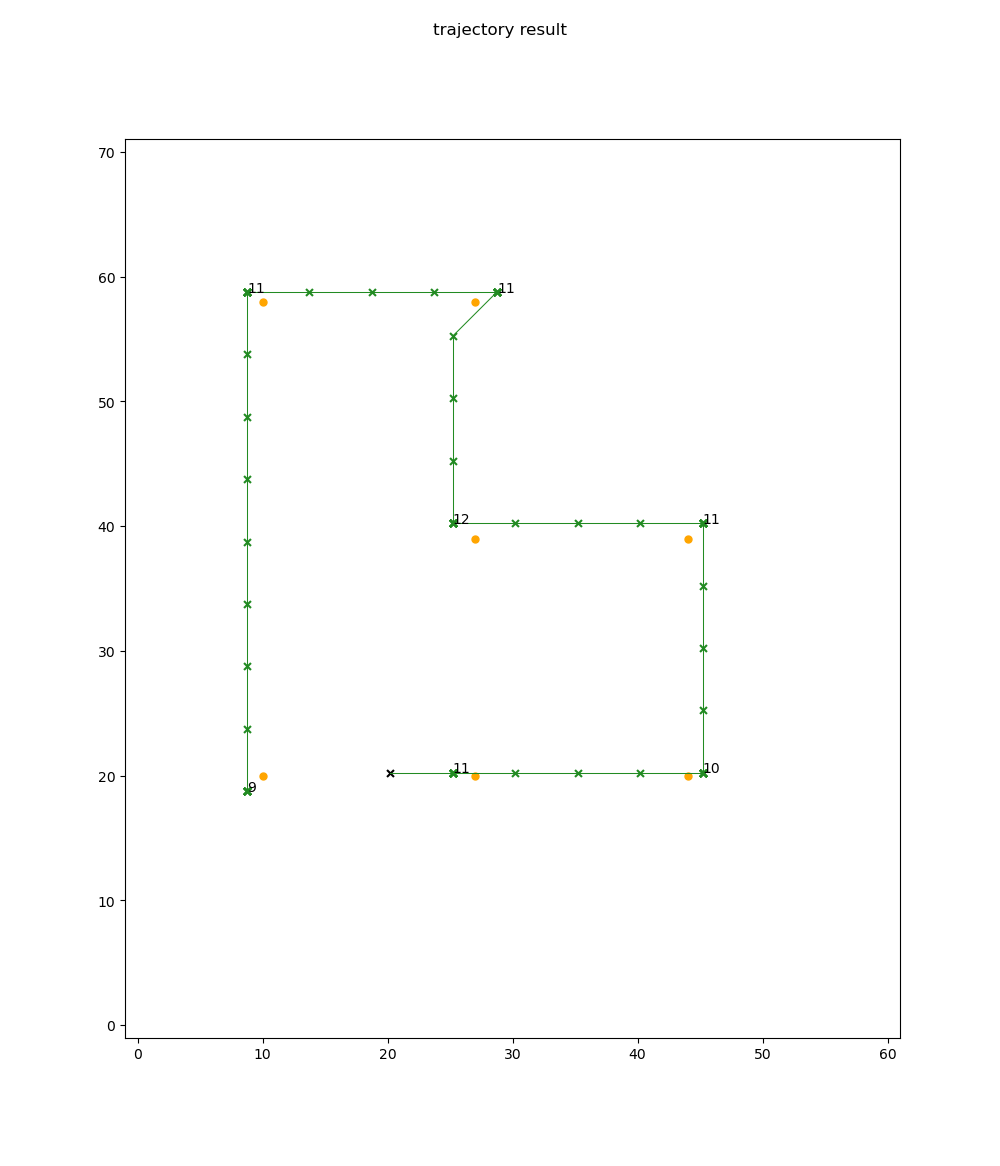
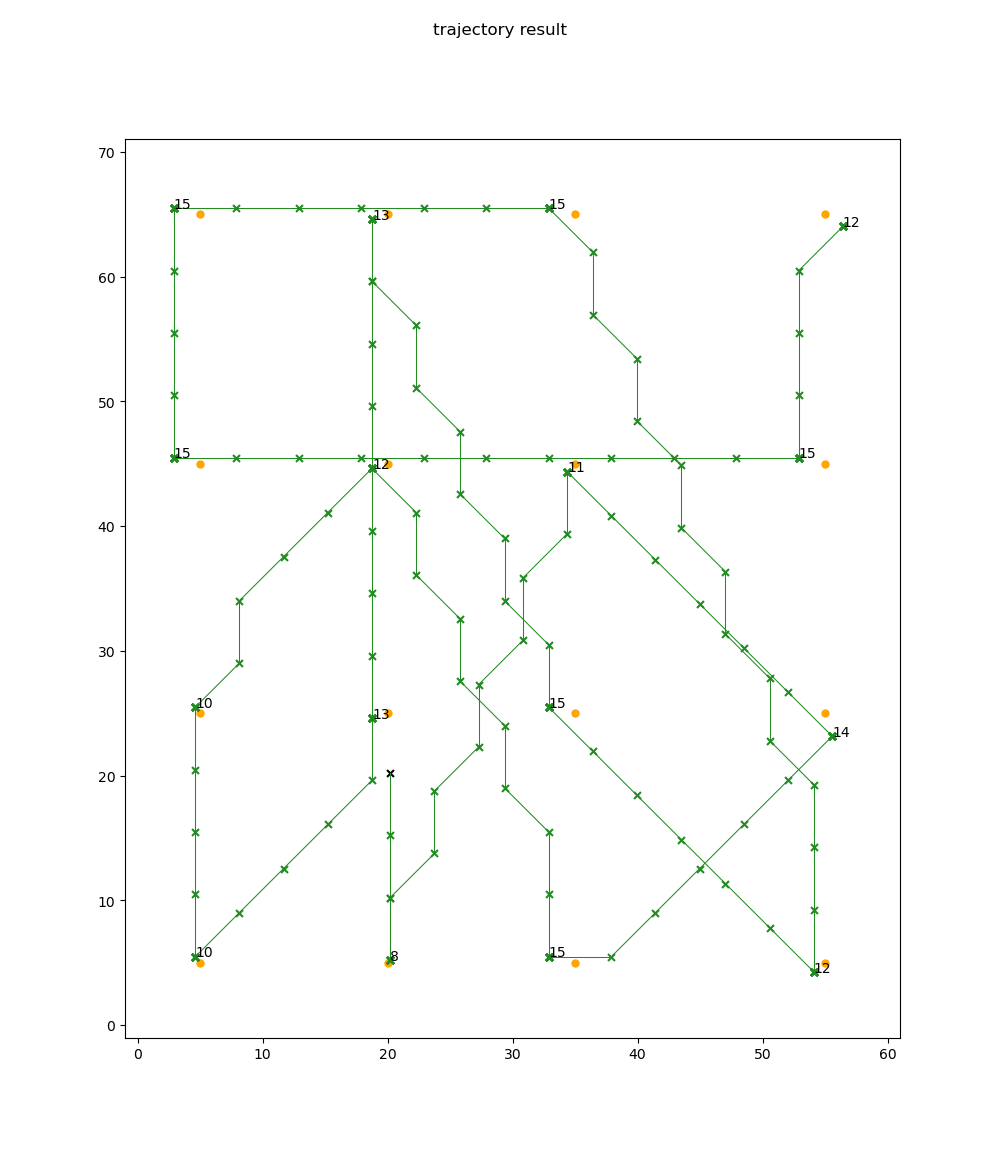
test: run another test for idea 5

diff --git a/WPCN_UAV/2021_11_Multi_UAV/newGeneticTest.py b/WPCN_UAV/2021_11_Multi_UAV/newGeneticTest.py
@@ -51,31 +51,20 @@ if __name__ == '__main__':
     # numpy setting
     np.set_printoptions(edgeitems=20, linewidth=200)
     
-    N = 100
+    N = 300
     width = 60
     height = 70
 
-    # device placement (X) :
-    #
-    #  X . . . X          58
-    #          .
-    #          .
-    #          .
-    #          X . . . X  39
-    #          .       .
-    #          .       .
-    #          .       .
-    #  X . . . X . . . X  20
-    #
-    # 10      27      44
-    
-    deviceList = [[10, 20], [27, 20], [44, 20], [27, 39], [44, 39], [10, 58], [27, 58]]
+    deviceList = [[5, 5], [20, 5], [35, 5], [55, 5],
+                  [5, 25], [20, 25], [35, 25], [55, 25],
+                  [5, 45], [20, 45], [35, 45], [55, 45],
+                  [5, 65], [20, 65], [35, 65], [55, 65]]
 
     # average of x : 27.00 (-> 20.22), y : 36.29 (-> 20.23), h : 15.00 (as same as the setting)
     initialLocUAV = [20.22, 20.23, 15.0]
 
     # initial movement
-    initialMovement = [3, 1, 2, 5, 4, 6, 0]
+    initialMovement = [7, 1, 10, 2, 9, 4, 0, 5, 6, 13, 3, 14, 8, 12, 15, 11]
 
     # parameter 1 -> the value of x, where the stop times of UAV is decided by (distance between UAV and nearest device)^x
     param1 = 0.4

diff --git a/WPCN_UAV/2021_11_Multi_UAV/throughputTest_NewGenetic.py b/WPCN_UAV/2021_11_Multi_UAV/throughputTest_NewGenetic.py
@@ -52,9 +52,6 @@ def swapBasic(deviceList, initialLocUAV, initialMovement, printed=False):
     resultMovement = copy.deepcopy(initialMovement)
     devCnt = len(deviceList)
 
-    if printed:
-        print('init:', initialMovement)
-
     # try swap until convergence
     while True:
         swapped = False
@@ -67,12 +64,12 @@ def swapBasic(deviceList, initialLocUAV, initialMovement, printed=False):
             dist      = computeTotalDist(initialLocUAV, resultMovement    , deviceList)
             dist_swap = computeTotalDist(initialLocUAV, resultMovementSwap, deviceList)
 
+            if printed and i == 0:
+                print('dist:', resultMovement, 'dist:', dist)
+
             if dist_swap < dist:
                 resultMovement = resultMovementSwap
                 swapped = True
-
-        if printed:
-            print('swap:', resultMovement)
 
         if swapped == False:
             break
